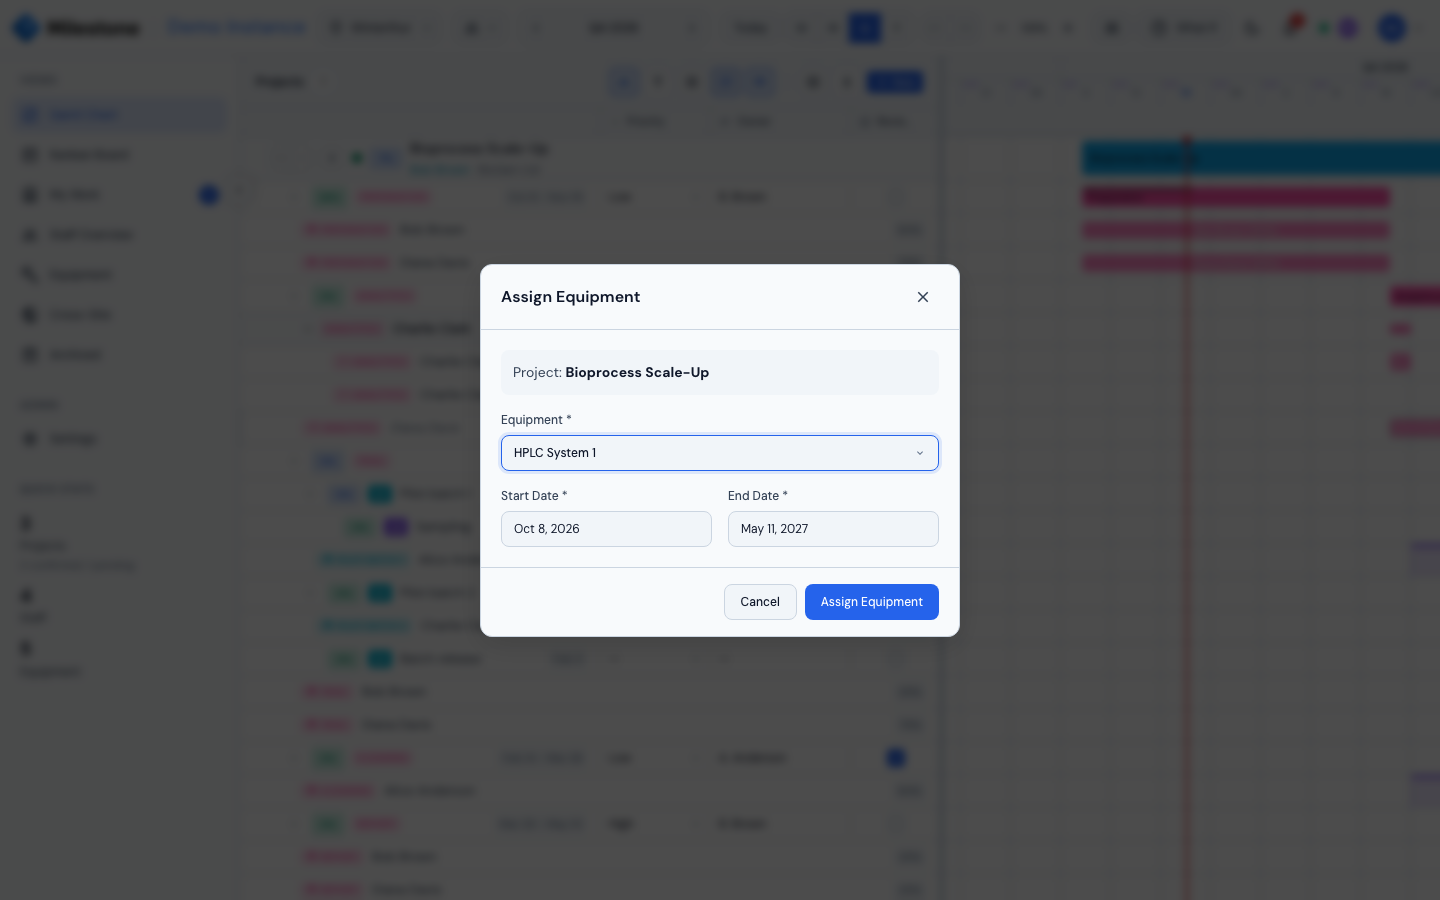
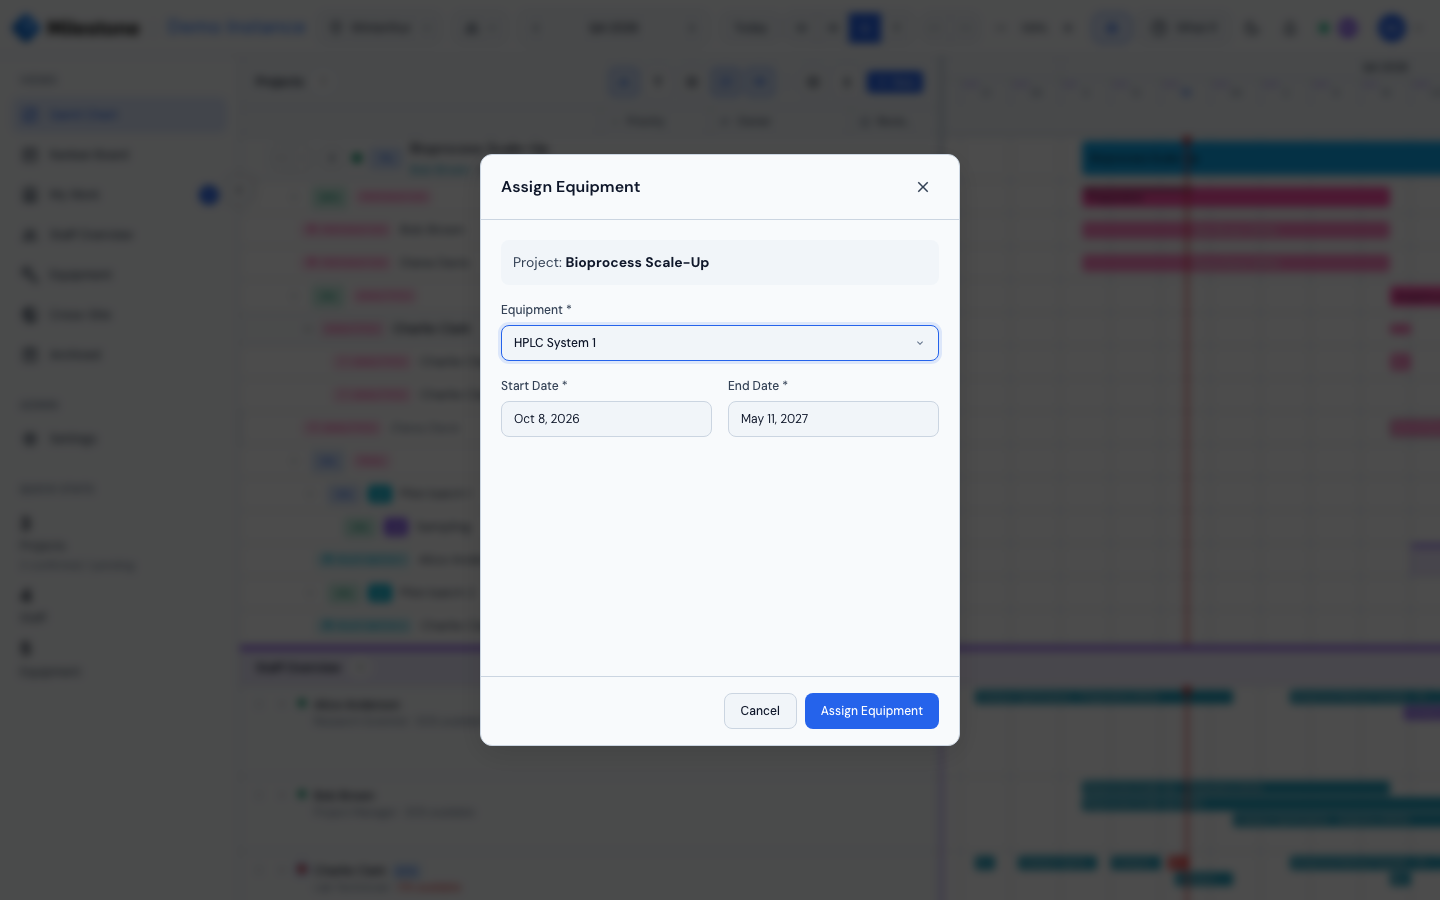
Give the assign dialogs room for the open resource picker
In create mode the assign staff / equipment dialog was only as tall as its
few fields, so the picker's panel (search box + list) was clipped by the
dialog body and had to be scrolled into view. The create form now has a
26rem minimum height, enough for the panel under its trigger; the edit
dialog keeps its content height and the Modal's max-height still makes the
body scroll on short windows.

diff --git a/frontend/src/components/modals/__tests__/AssignmentModal.test.tsx b/frontend/src/components/modals/__tests__/AssignmentModal.test.tsx
@@ -20,6 +20,7 @@ import { useViewStore } from '@/stores/viewStore';
 import { tagFilterKey } from '@/utils/tags';
 import { makeTeam, makeUser } from '@/test/factories';
 import { optionLabel, pickOption, pickerOptions, pickerTrigger } from '@/test/searchableSelect';
+import styles from '../AssignmentModal.module.css';
 
 vi.mock('@/api/endpoints/projects', () => ({
   createStaffAssignment: vi.fn().mockResolvedValue({}),
@@ -160,6 +161,53 @@ describe('AssignmentModal picker', () => {
     pickOption(/^Equipment/, 'Bioreactor');
     expect(pickerTrigger(/^Equipment/)).toHaveAccessibleName('Equipment * Bioreactor');
     expect(screen.getByRole('button', { name: 'Assign Equipment' })).toBeInTheDocument();
+  });
+});
+
+describe('AssignmentModal height', () => {
+  // The open picker panel must fit under its trigger without scrolling the body.
+  function form(): HTMLFormElement {
+    const el = document.querySelector('form');
+    if (!el) throw new Error('no form');
+    return el;
+  }
+
+  it('makes room for the open staff picker when creating', () => {
+    seed({ id: 99, role: 'superuser' });
+    openForProject();
+    render(<AssignmentModal mode="staff" />);
+    fireEvent.click(pickerTrigger(/^Staff Member/));
+    expect(screen.getByRole('combobox', { name: 'Find a person' })).toHaveFocus();
+    expect(form()).toHaveClass(styles.form, styles.formTall);
+  });
+
+  it('makes room for the open equipment picker when creating', () => {
+    seed({ id: 99, role: 'superuser' });
+    useAppStore.setState({ equipment: [{ id: 11, name: 'Bioreactor', type: 'Reactor', site_id: 1 }] as never });
+    useUIStore.setState({ editingEquipmentAssignment: null });
+    useUIStore.getState().openModal('equipmentAssignment', { projectId: 1 });
+    render(<AssignmentModal mode="equipment" />);
+    fireEvent.click(pickerTrigger(/^Equipment/));
+    expect(form()).toHaveClass(styles.formTall);
+  });
+
+  it('keeps an edit dialog at its content height', () => {
+    seed({ id: 99, role: 'superuser' });
+    useUIStore.getState().setEditingStaffAssignment({
+      id: 11,
+      project_id: 1,
+      phase_id: null,
+      subphase_id: null,
+      staff_id: 4,
+      staff_name: 'Bob Brown',
+      allocation: 50,
+      start_date: '2026-09-01',
+      end_date: '2026-09-14',
+    });
+    useUIStore.getState().openModal('staffAssignment', { projectId: 1 });
+    render(<AssignmentModal mode="staff" />);
+    expect(form()).toHaveClass(styles.form);
+    expect(form()).not.toHaveClass(styles.formTall);
   });
 });
 

diff --git a/frontend/src/components/modals/AssignmentModal.tsx b/frontend/src/components/modals/AssignmentModal.tsx
@@ -517,7 +517,10 @@ export function AssignmentModal({ mode }: AssignmentModalProps) {
       size={showComments ? 'lg' : 'md'}
       footer={footer}
     >
-      <form onSubmit={handleSubmit} className={styles.form}>
+      <form
+        onSubmit={handleSubmit}
+        className={isEditing ? styles.form : `${styles.form} ${styles.formTall}`}
+      >
         {createBlockedReason && (
           <div className={styles.error} role="status">{createBlockedReason}</div>
         )}

diff --git a/frontend/src/components/modals/AssignmentModal.module.css b/frontend/src/components/modals/AssignmentModal.module.css
@@ -6,6 +6,16 @@
   gap: 1rem;
 }
 
+/*
+ * Create mode: room for the open resource picker under its trigger. The panel
+ * (search box + a 14rem list, ~16rem) opens ~8rem down the form, so 26rem
+ * keeps it whole inside the dialog body without scrolling it. On a short
+ * window the Modal's max-height still wins and the body scrolls.
+ */
+.formTall {
+  min-height: 26rem;
+}
+
 .formGroup {
   display: flex;
   flex-direction: column;
